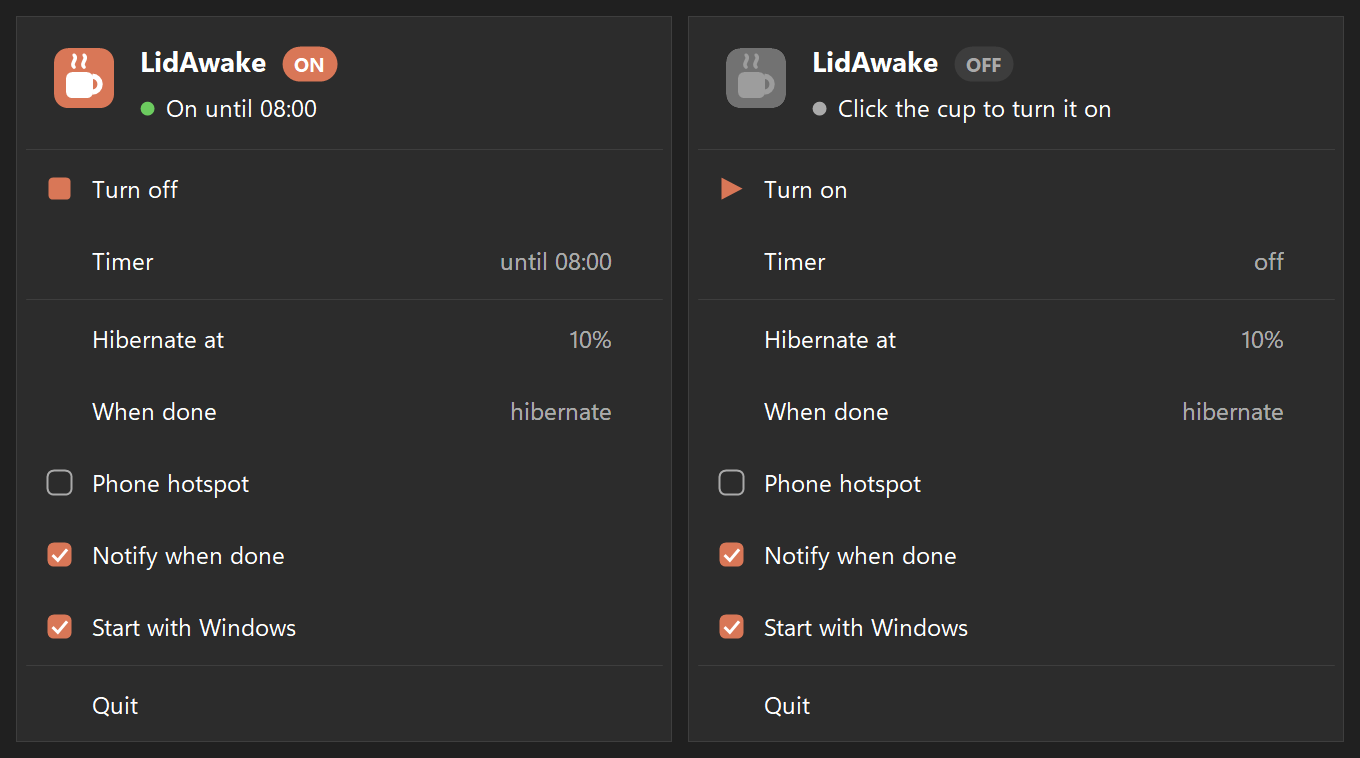
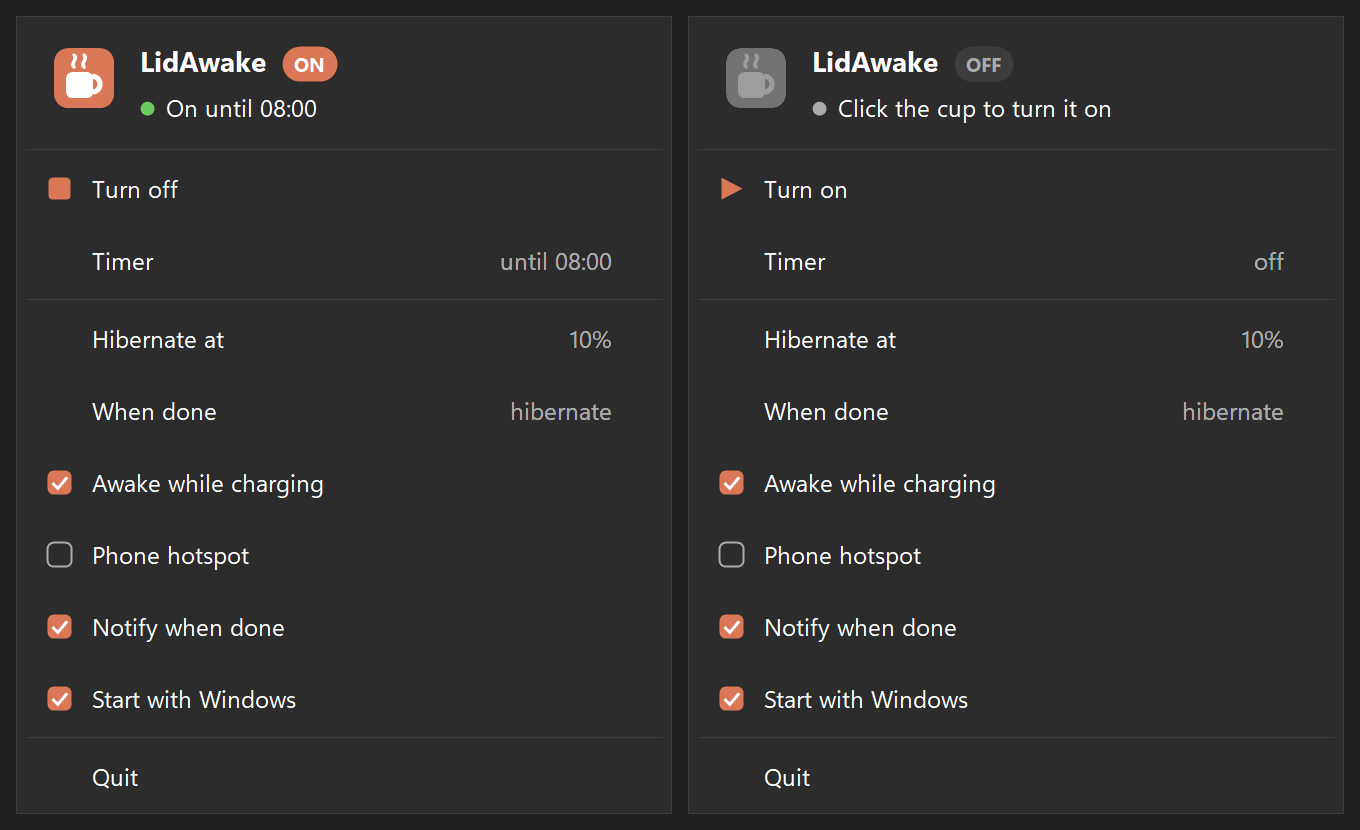
1.5.2: awake while charging, never hibernates on the charger
While the charger is in, LidAwake stays on between prompts, so the laptop
no longer drops into Modern Standby after Claude finishes and stays
reachable remotely. The end-of-work hibernate / shut down now runs only
on battery. The phone hotspot is skipped when only the charger keeps it on.

diff --git a/src/Tray.cs b/src/Tray.cs
@@ -31,7 +31,7 @@ namespace LidAwake
         readonly MessageWindow window;
         readonly NotifyIcon tray;
         readonly MenuHeader header;
-        readonly ToolStripMenuItem toggleItem, autostartItem, hotspotItem, timerItem, batteryItem, notifyItem, endItem;
+        readonly ToolStripMenuItem toggleItem, autostartItem, hotspotItem, timerItem, batteryItem, notifyItem, endItem, chargerItem;
         readonly Icon iconOn, iconOff;
         readonly System.Windows.Forms.Timer timer, recheck;
         readonly bool resident;   // keep the tray icon when off
@@ -45,6 +45,8 @@ namespace LidAwake
         DateTime lastHeat = DateTime.MinValue, lastTempLog = DateTime.MinValue, lastTip = DateTime.MinValue;
         string temps;             // last CPU / GPU reading, for the tooltip
         int timerChoice;   // 0 none, 1 one hour, 2 two hours, 3 until 8:00
+        bool charger;      // on because the charger is in ("Awake while charging")
+        bool chargerOff;   // turned off by hand while charging: stay off until the charger comes out
 
         public TrayApp(bool resident, bool turnOn, string holder, int pid)
         {
@@ -58,13 +60,14 @@ namespace LidAwake
             timerItem = TrayMenu.Row(Strings.MenuTimer, Glyph.None, null, delegate { CycleTimer(); });
             batteryItem = TrayMenu.Row(Strings.MenuBattery, Glyph.None, null, delegate { CycleBattery(); });
             endItem = TrayMenu.Row(Strings.MenuEnd, Glyph.None, null, delegate { SetEnd(!Prefs.ShutDownWhenDone); });
+            chargerItem = TrayMenu.Row(Strings.MenuCharger, Glyph.Check, null, delegate { SetCharger(!Prefs.AwakeOnCharger); });
             hotspotItem = TrayMenu.Row(Strings.MenuHotspot, Glyph.Check, null, delegate { ToggleHotspot(); });
             notifyItem = TrayMenu.Row(Strings.MenuNotify, Glyph.Check, null, delegate { SetNotify(!Prefs.NotifyDone); });
             autostartItem = TrayMenu.Row(Strings.MenuAutostart, Glyph.Check, null, delegate { ToggleAutostart(); });
             var quit = TrayMenu.Row(Strings.MenuQuit, Glyph.None, null, delegate { Quit("quit from the tray"); });
             ToolStripItem[] rows = resident
                 ? new ToolStripItem[] { toggleItem, timerItem, new ToolStripSeparator(),
-                    batteryItem, endItem, hotspotItem, notifyItem, autostartItem, new ToolStripSeparator(), quit }
+                    batteryItem, endItem, chargerItem, hotspotItem, notifyItem, autostartItem, new ToolStripSeparator(), quit }
                 : new ToolStripItem[] { toggleItem };
             ContextMenuStrip menu = TrayMenu.Build(App.FullIcon(), out header, rows);
             // the timer and battery rows change on each click, so keep the menu open for them
@@ -144,7 +147,8 @@ namespace LidAwake
             return true;
         }
 
-        // honorLid: the work is done, so if the lid is shut, hibernate (power off with everything saved).
+        // honorLid: the work is done, so if the lid is shut on battery, hibernate (power off with everything
+        // saved). On the charger the laptop is left on, so it stays reachable.
         void Deactivate(string why, bool honorLid)
         {
             if (!active) return;
@@ -156,6 +160,9 @@ namespace LidAwake
             onHotspot = false;
             lastHotspotTry = DateTime.MinValue;
             active = false;
+            charger = false;
+            bool plugged = PowerPlan.Charging();
+            if (plugged) chargerOff = true;   // turned off while charging: don't come straight back on
             bool lidClosed = keeper.LidClosed;
             guard.Stop("LidAwake turned off");
             try { keeper.Release(); }
@@ -163,7 +170,8 @@ namespace LidAwake
             Refresh();
 
             if (!resident) CloseUi();
-            if (honorLid && lidClosed)
+            if (honorLid && lidClosed && plugged) App.Log("Lid closed but charging: left on.");
+            else if (honorLid && lidClosed)
             {
                 if (Prefs.ShutDownWhenDone) Keeper.ShutDown("all work is done and the lid is closed");
                 else Keeper.Hibernate("all work is done and the lid is closed");
@@ -317,6 +325,16 @@ namespace LidAwake
             if (Enabled() != on) ToggleHotspot();
         }
 
+        void SetCharger(bool on)
+        {
+            try { Prefs.AwakeOnCharger = on; }
+            catch (Exception ex) { App.Log("Charger setting change failed: " + ex.Message); }
+            chargerOff = false;
+            if (!on) lastRelease = DateTime.UtcNow;   // still the usual minute before turning off
+            Refresh();
+            Evaluate();
+        }
+
         void Notify(string text)
         {
             App.Log("Notify: " + text);
@@ -405,6 +423,9 @@ namespace LidAwake
                 case "hotspot":
                     ui.Post(delegate { SetHotspot(id == "on"); }, null);
                     return "ok";
+                case "charging":
+                    ui.Post(delegate { SetCharger(id == "on"); }, null);
+                    return "ok";
                 default:
                     return "unknown command";
             }
@@ -422,8 +443,23 @@ namespace LidAwake
         {
             if (exiting) return;
             keeper.WatchPowerMode();
-            if (!active) return;
             DateTime now = DateTime.UtcNow;
+
+            // "Awake while charging": stay on while the charger is in, so Remote Control can still reach the
+            // laptop between prompts. When the charger comes out, the usual minute, then the usual end.
+            bool plugged = PowerPlan.Charging();
+            if (!plugged)
+            {
+                if (charger) { App.Log("Charger out."); lastRelease = now; }
+                chargerOff = false;
+            }
+            charger = resident && plugged && Prefs.AwakeOnCharger && !chargerOff;
+            if (charger && !active)
+            {
+                App.Log("Charging: staying on.");
+                if (!Activate()) { charger = false; chargerOff = true; }
+            }
+            if (!active) return;
             foreach (var pair in new List<KeyValuePair<string, Hold>>(holds))
             {
                 Hold h = pair.Value;
@@ -489,7 +525,8 @@ namespace LidAwake
             // Until it works, try once a minute; after that only if the internet drops for 10 s.
             if (!hotspotBusy)
             {
-                if (keeper.LidClosed && Enabled())
+                // not when only the charger keeps it on: nothing is working, so no mobile data
+                if (keeper.LidClosed && Enabled() && (manual || holds.Count > 0 || !charger))
                 {
                     bool due = now - lastHotspotTry > TimeSpan.FromMinutes(1);
                     if (!onHotspot) { if (due) StartHotspot(); }
@@ -508,7 +545,7 @@ namespace LidAwake
                 }
             }
 
-            if (!manual && holds.Count == 0 && now - lastRelease >= Linger)
+            if (!manual && !charger && holds.Count == 0 && now - lastRelease >= Linger)
                 Deactivate("all jobs done", true);
             else
                 Refresh();
@@ -519,11 +556,13 @@ namespace LidAwake
             string prefs = "\nSettings: hibernate at " + Prefs.HibernateAt + "% battery with the lid closed; heat limit "
                 + (Prefs.HeatLimit > 0 ? Prefs.HeatLimit + "°C" : "off") + "; when done with the lid closed: "
                 + (Prefs.ShutDownWhenDone ? "shut down" : "hibernate") + "; notify when done "
-                + (Prefs.NotifyDone ? "on" : "off") + "; phone hotspot " + (Enabled() ? "on" : "off");
+                + (Prefs.NotifyDone ? "on" : "off") + "; awake while charging " + (Prefs.AwakeOnCharger ? "on" : "off")
+                + "; phone hotspot " + (Enabled() ? "on" : "off");
             if (!active) return "running in the tray, off" + prefs;
             var parts = new List<string>();
             if (manual) parts.Add(until.HasValue ? "manual, timer until " + until.Value.ToLocalTime().ToString("HH:mm") : "manual");
             foreach (string k in holds.Keys) parts.Add(k);
+            if (charger) parts.Add("the charger");
             string who = parts.Count == 0 ? "nothing (turning off soon)" : string.Join(", ", parts.ToArray());
             return "on; held by: " + who + "; lid " + (keeper.LidClosed ? "closed" : "open")
                 + (keeper.Problem != null ? "; problem: " + keeper.Problem : "") + prefs;
@@ -540,6 +579,7 @@ namespace LidAwake
             else if (manual && until.HasValue) s = string.Format(Strings.StatusUntil, until.Value.ToLocalTime().ToString("HH:mm"));
             else if (manual) s = Strings.StatusManual;
             else if (holds.Count > 0) s = string.Format(Strings.StatusJobs, holds.Count);
+            else if (charger) s = Strings.StatusCharger;
             else s = Strings.StatusEnding;
             header.Set(active, s, active ? keeper.Problem : null);
 
@@ -560,6 +600,8 @@ namespace LidAwake
             ((RowInfo)endItem.Tag).Hint = Prefs.ShutDownWhenDone ? Strings.EndShutdown : Strings.EndHibernate;
             endItem.Invalidate();
             ((RowInfo)notifyItem.Tag).Checked = Prefs.NotifyDone;
+            ((RowInfo)chargerItem.Tag).Checked = Prefs.AwakeOnCharger;
+            chargerItem.Invalidate();
             notifyItem.Invalidate();
             toggleItem.Invalidate();
             autostartItem.Invalidate();

diff --git a/src/Program.cs b/src/Program.cs
@@ -15,8 +15,8 @@ using System.Windows.Forms;
 [assembly: AssemblyDescription("Keeps a Windows laptop working with the lid closed while a job runs")]
 [assembly: AssemblyProduct("LidAwake")]
 [assembly: AssemblyCopyright("MIT License")]
-[assembly: AssemblyVersion("1.5.1.0")]
-[assembly: AssemblyFileVersion("1.5.1.0")]
+[assembly: AssemblyVersion("1.5.2.0")]
+[assembly: AssemblyFileVersion("1.5.2.0")]
 
 namespace LidAwake
 {
@@ -51,6 +51,7 @@ namespace LidAwake
                     case "notify": return OnOff("notify", arg1, "Notify when done:");
                     case "heat": return Heat(arg1);
                     case "end": return End(arg1);
+                    case "charging": return OnOff("charging", arg1, "Awake while charging:");
                     case "hotspot": return OnOff("hotspot", arg1, "Phone hotspot (while on with the lid closed):");
                     case "restore": return Restore();
                     case "install": return Installer.Install(false, arg1 == "--connect");
@@ -82,6 +83,8 @@ namespace LidAwake
                 var timer = TrayMenu.Row(Strings.MenuTimer, Glyph.None, on ? string.Format(Strings.TimerUntil, "08:00") : Strings.TimerOff, null);
                 var battery = TrayMenu.Row(Strings.MenuBattery, Glyph.None, "10%", null);
                 var end = TrayMenu.Row(Strings.MenuEnd, Glyph.None, Strings.EndHibernate, null);
+                var charger = TrayMenu.Row(Strings.MenuCharger, Glyph.Check, null, null);
+                ((RowInfo)charger.Tag).Checked = true;
                 var hotspot = TrayMenu.Row(Strings.MenuHotspot, Glyph.Check, null, null);
                 var notify = TrayMenu.Row(Strings.MenuNotify, Glyph.Check, null, null);
                 ((RowInfo)notify.Tag).Checked = true;
@@ -89,7 +92,7 @@ namespace LidAwake
                 ((RowInfo)auto.Tag).Checked = true;
                 var quit = TrayMenu.Row(Strings.MenuQuit, Glyph.None, null, null);
                 ContextMenuStrip menu = TrayMenu.Build(App.FullIcon(), out header, toggle, timer, new ToolStripSeparator(),
-                    battery, end, hotspot, notify, auto, new ToolStripSeparator(), quit);
+                    battery, end, charger, hotspot, notify, auto, new ToolStripSeparator(), quit);
                 header.Set(on, on ? string.Format(Strings.StatusUntil, "08:00") : Strings.StatusOff, null);
                 menu.Show(new Point(-4000, -4000));
                 Application.DoEvents();
@@ -604,6 +607,7 @@ namespace LidAwake
         public static readonly string StatusManual = Ro ? "Pornit de tine" : "Turned on by you";
         public static readonly string StatusUntil = Ro ? "Pornit până la {0}" : "On until {0}";
         public static readonly string StatusJobs = Ro ? "Lucrează pentru {0} job(uri) Claude" : "Working for {0} Claude job(s)";
+        public static readonly string StatusCharger = Ro ? "Treaz cât e la încărcat" : "Awake while charging";
         public static readonly string StatusEnding = Ro ? "Gata - se oprește în câteva secunde" : "Done - turning off in a moment";
         public static readonly string StatusOff = Ro ? "Click pe cană ca să-l pornești" : "Click the cup to turn it on";
         public static readonly string BalloonOn = Ro ? "Poți închide capacul: ecranul se stinge, treaba continuă." : "You can close the lid: the screen turns off, the work keeps going.";
@@ -618,6 +622,7 @@ namespace LidAwake
         public static readonly string TimerUntil = Ro ? "până la {0}" : "until {0}";
         public static readonly string MenuBattery = Ro ? "Hibernează la" : "Hibernate at";
         public static readonly string MenuBatteryShutDown = Ro ? "Oprește la" : "Shut down at";
+        public static readonly string MenuCharger = Ro ? "Treaz la încărcat" : "Awake while charging";
         public static readonly string MenuNotify = Ro ? "Notificare la final" : "Notify when done";
         public static readonly string ClaudeDone = Ro ? "Claude a terminat (a lucrat {0} min)." : "Claude is done (worked {0} min).";
         public static readonly string TimerDone = Ro ? "Timer-ul s-a terminat. LidAwake se oprește dacă nu mai lucrează nimic." : "The timer is over. LidAwake turns off unless something is still working.";
@@ -648,6 +653,7 @@ namespace LidAwake
   LidAwake heat 90    hibernate if the CPU or GPU stays this hot for a minute, lid closed (70-100 or off, default 95)
   LidAwake end hibernate|shutdown   what to do when the work ends or the battery runs low, lid closed
   LidAwake notify on|off   balloon when Claude finishes a long job or a timer ends
-  LidAwake hotspot on|off  connect to the phone's hotspot while on with the lid closed";
+  LidAwake hotspot on|off  connect to the phone's hotspot while on with the lid closed
+  LidAwake charging on|off stay on while the charger is in (reachable between prompts)";
     }
 }

diff --git a/src/Setup.cs b/src/Setup.cs
@@ -355,7 +355,10 @@ cup: grey = off, coral = on.
   the work. So at that moment LidAwake shows a black screen instead (safe for OLED); any key or mouse move
   brings the desktop back. Locking the PC (Win+L) still pauses the work after ~30 s: tell the user to close
   the lid instead of locking.
-- **When work ends with the lid closed,** or the battery reaches the threshold (default 10%), the laptop hibernates
+- **Awake while charging** (on by default): while the charger is in, LidAwake stays on even between prompts, so
+  the laptop stays reachable (Remote Control) with the lid open or closed. Turning it off by hand while charging
+  keeps it off until the charger comes out.
+- **When work ends with the lid closed on battery,** or the battery reaches the threshold (default 10%), the laptop hibernates
   (powers off, everything saved; the work resumes when it is opened), or shuts down if the user chose that.
   If the CPU or GPU stays at the heat limit (default 95°C) for a minute with the lid closed, it always hibernates.
 - **Temperatures:** hovering the tray cup shows the CPU and GPU temperature; `LidAwake.exe status` prints them.
@@ -369,11 +372,12 @@ Run these when the user asks for it or the task needs it. Each prints what it di
 | The user wants | Command |
 |---|---|
 | keep the laptop awake for a while / overnight | `LidAwake.exe for 2h` (or `90m`, `1.5h`), `LidAwake.exe until 8:00`; `for off` clears the timer |
-| turn it on now / off now | `LidAwake.exe on` / `LidAwake.exe off` (off with the lid closed hibernates the laptop) |
+| turn it on now / off now | `LidAwake.exe on` / `LidAwake.exe off` (off with the lid closed on battery hibernates the laptop) |
 | hibernate / shut down at another battery level | `LidAwake.exe battery 15` (3-50) |
 | another heat limit, or none | `LidAwake.exe heat 90` (70-100) / `LidAwake.exe heat off` |
 | shut down instead of hibernating when the work ends or the battery runs low, lid closed | `LidAwake.exe end shutdown` / `end hibernate` |
 | notifications on or off | `LidAwake.exe notify on` / `off` |
+| stay on (reachable) whenever the charger is in, or not | `LidAwake.exe charging on` / `off` |
 | the laptop on the phone's hotspot whenever LidAwake is on and the lid is closed (even from Wi-Fi) | `LidAwake.exe hotspot on` / `off` (needs Instant hotspot set up in Phone Link first) |
 | a detached process of yours must outlive your turn | `LidAwake.exe start <name>` before it, `LidAwake.exe stop <name>` when it is done |
 | see the state and all settings | `LidAwake.exe status` |

diff --git a/src/Power.cs b/src/Power.cs
@@ -100,6 +100,13 @@ namespace LidAwake
 
         public static bool OnBattery() { return Status().ACLineStatus == 0; }
 
+        // A laptop on its charger (a PC without a battery doesn't count).
+        public static bool Charging()
+        {
+            var s = Status();
+            return s.ACLineStatus == 1 && s.BatteryFlag != 255 && (s.BatteryFlag & 128) == 0;
+        }
+
         // On Modern Standby laptops a screen that turns off by itself takes the whole PC into standby,
         // even with sleep set to "Never".
         public static bool ModernStandby()

diff --git a/src/Prefs.cs b/src/Prefs.cs
@@ -54,6 +54,13 @@ namespace LidAwake
             set { Set("ShutDownWhenDone", value ? 1 : 0); }
         }
 
+        // Stay on while the charger is in, so the laptop stays reachable (Remote Control) between prompts.
+        public static bool AwakeOnCharger
+        {
+            get { return Get("AwakeOnCharger", 1) == 1; }
+            set { Set("AwakeOnCharger", value ? 1 : 0); }
+        }
+
         // A balloon when Claude finishes a long job or a timer runs out.
         public static bool NotifyDone
         {

diff --git a/README.md b/README.md
@@ -13,7 +13,7 @@ for as long as the job runs.
 
 - **Lives in the tray.** Click the coffee cup to turn it on (coral) or off (grey). While off it changes nothing
   and uses no CPU. Right-click for the menu: *Timer* (1 h, 2 h or until 8:00), *Hibernate at* (battery level),
-  *Phone hotspot*, *Notify when done* and *Start with Windows* (on by default).
+  *Awake while charging*, *Phone hotspot*, *Notify when done* and *Start with Windows* (on by default).
 - **No admin and no network.** One small exe (about 150 KB) that uses the .NET Framework built into Windows.
   No service and no scheduled task.
 
@@ -27,7 +27,8 @@ for as long as the job runs.
 | Lid closed while on battery | power mode *Best power efficiency* (Settings → System → Power) | your mode again, the next time the laptop is on battery |
 | Battery drops to your threshold (10% by default) with the lid closed | hibernates so nothing is lost; the job carries on when you open it (or shuts down if you picked that under *When done*) | |
 | CPU or GPU stays at the heat limit (95°C by default) for a minute with the lid closed, say in a bag | hibernates, same as above | |
-| Job ends while the lid is closed | | hibernates (everything saved, laptop off), or shuts down if you pick that under *When done* |
+| Job ends while the lid is closed, on battery | | hibernates (everything saved, laptop off), or shuts down if you pick that under *When done* |
+| Charger in (*Awake while charging*, on by default) | stays on between prompts too, so the laptop stays reachable, for example from Claude's Remote Control on your phone | when the charger comes out: a minute later, the usual end |
 
 Your original values are saved to `%LOCALAPPDATA%\LidAwake\restore.txt` **before** anything changes. If
 LidAwake is ever killed, the next start puts them back first. You can also run `LidAwake restore` at any time.
@@ -60,6 +61,9 @@ add or remove the Claude Code part later.
 - **Temperatures.** Hover the cup to see the CPU and GPU temperature. They come from the laptop maker's sensor
   on ASUS laptops, and otherwise from Windows (the ACPI thermal zone and the graphics driver, like Task Manager).
   No admin needed.
+- **Awake while charging** (on by default). While the charger is in, LidAwake stays on between prompts, with the
+  lid open or closed, so you can keep using Claude remotely. Turning it off from the cup while charging keeps it
+  off until you unplug. `LidAwake charging off` turns the option off.
 - **Notify when done** (on by default): a notification when Claude finishes a job that took longer than
   2 minutes, and when a timer ends. `LidAwake notify off` turns it off.
 
@@ -137,7 +141,7 @@ LidAwake until 8:00   on now, off at 8:00
 LidAwake battery 15   hibernate at 15% with the lid closed (3-50)
 LidAwake heat 90      hibernate if CPU/GPU stays this hot, lid closed (70-100, off)
 LidAwake end shutdown shut down instead of hibernating when done (end hibernate)
-LidAwake notify on|off    LidAwake hotspot on|off
+LidAwake notify on|off    LidAwake hotspot on|off    LidAwake charging on|off
 ```
 
 The log is at `%LOCALAPPDATA%\LidAwake\lidawake.log`.
@@ -169,7 +173,8 @@ try it without writing any power setting.
 
 LidAwake ține laptopul pornit cu capacul închis cât timp lucrează Claude (sau cât îl pornești tu). Ecranul se
 stinge (sau devine negru), iar pe baterie trece pe modul de putere cel mai economic. Când treaba e gata, inclusiv taskurile din fundal, pune setările
-înapoi exact cum erau. Dacă capacul e încă închis, laptopul intră în hibernate: se oprește cu tot salvat. Tot
+înapoi exact cum erau. La încărcător rămâne treaz și între prompturi, ca să-l poți folosi remote. Dacă
+capacul e încă închis și e pe baterie, laptopul intră în hibernate: se oprește cu tot salvat. Tot
 așa face dacă bateria ajunge la 10% cu capacul închis. Nu rulează în fundal, nu cere
 admin și nu folosește internetul. Pornești din Start → **LidAwake** și oprești din iconița cu cana de cafea din tray.
 
